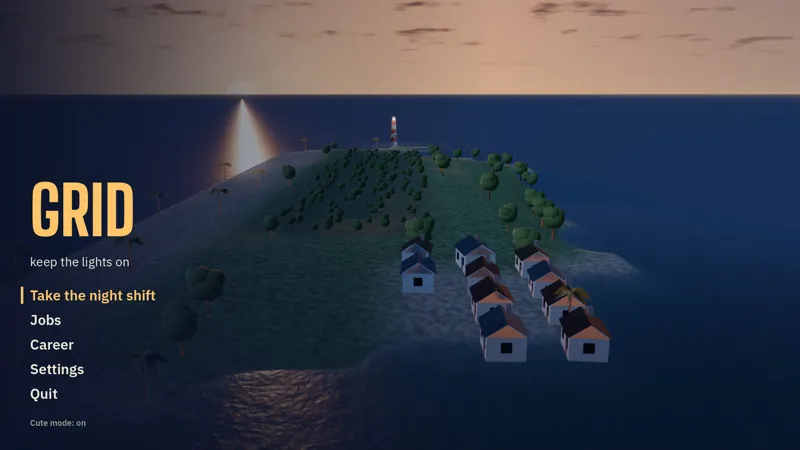
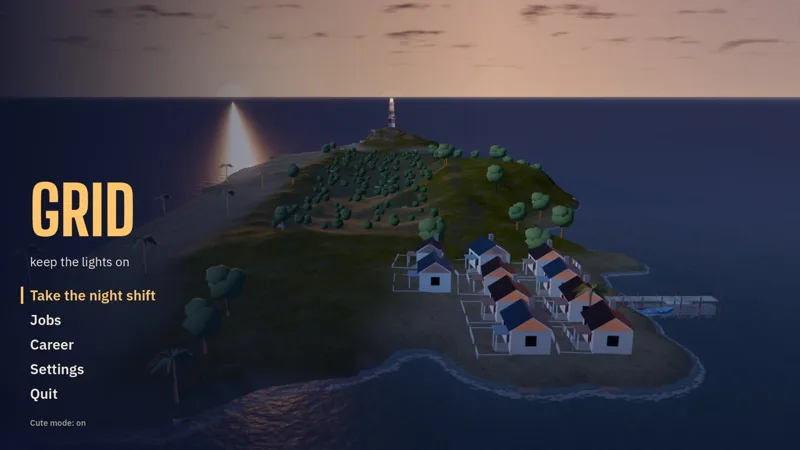
GRID card: 1.18.0 (shaped island, chapter 2 in 3D, finale load); new title shot
Claude-Session: https://claude.ai/code/session_01LLtMdbo6QrqLGE18L1gpTt

diff --git a/index.html b/index.html
@@ -86,17 +86,17 @@
   <article class="game grid" id="grid">
     <h2 class="name">Grid</h2>
     <p class="pitch">Build a power grid. Keep the lights on.</p>
-    <a class="shot main" href="https://grid.blackmetal.tech/" target="_blank" rel="noopener" aria-label="Open the GRID site in a new tab"><img src="assets/shots/grid-street-3d.webp" width="1400" height="623" loading="lazy" alt="GRID 1.17: a town at street level at dusk with lit windows"></a>
+    <a class="shot main" href="https://grid.blackmetal.tech/" target="_blank" rel="noopener" aria-label="Open the GRID site in a new tab"><img src="assets/shots/grid-street-3d.webp" width="1400" height="623" loading="lazy" alt="GRID 1.18: a town at street level at dusk with lit windows"></a>
     <div class="below">
       <div class="facts">
         <h3>What you learn</h3>
         <ul class="learn"><li>Ohm's law to AC load flow</li><li>Voltage and harmonics</li><li>Frequency and protection</li><li>Dispatch and planning</li></ul>
         <h3>Platforms</h3>
-        <p class="plat">Linux, Windows (not yet tested on Windows). Alpha 1.17.0: the game opens on a dark island bay, and chapter 1 is in 3D.</p>
+        <p class="plat">Linux, Windows (not yet tested on Windows). Alpha 1.18.0: the island has a shape, chapter 2's map jobs are in 3D, and the finale starts in about 4 s.</p>
         <p class="links"><a href="https://github.com/blackmetaltech/grid/releases/latest">Download</a><a href="https://grid.blackmetal.tech/">Site</a><a href="https://grid.blackmetal.tech/wiki/">Wiki</a><a href="https://github.com/blackmetaltech/grid">Source</a></p>
       </div>
       <div class="more">
-        <a class="shot" href="https://grid.blackmetal.tech/" target="_blank" rel="noopener" aria-label="Open the GRID site in a new tab"><img src="assets/shots/grid-bay-3d.webp" width="800" height="450" loading="lazy" alt="The title: the island bay at dusk, the lighthouse lit and the hamlet dark, waiting for its first lamp"></a>
+        <a class="shot" href="https://grid.blackmetal.tech/" target="_blank" rel="noopener" aria-label="Open the GRID site in a new tab"><img src="assets/shots/grid-bay-3d.webp" width="800" height="450" loading="lazy" alt="The title: the island at dusk, a headland under the lighthouse, a jetty and homes with porches, waiting for the first lamp"></a>
         <a class="shot" href="https://grid.blackmetal.tech/" target="_blank" rel="noopener" aria-label="Open the GRID site in a new tab"><img src="assets/shots/grid-blackout-3d.webp" width="800" height="450" loading="lazy" alt="Lightning has taken the island's only feeder: the island is dark beside the lit harbour"></a>
       </div>
     </div>
